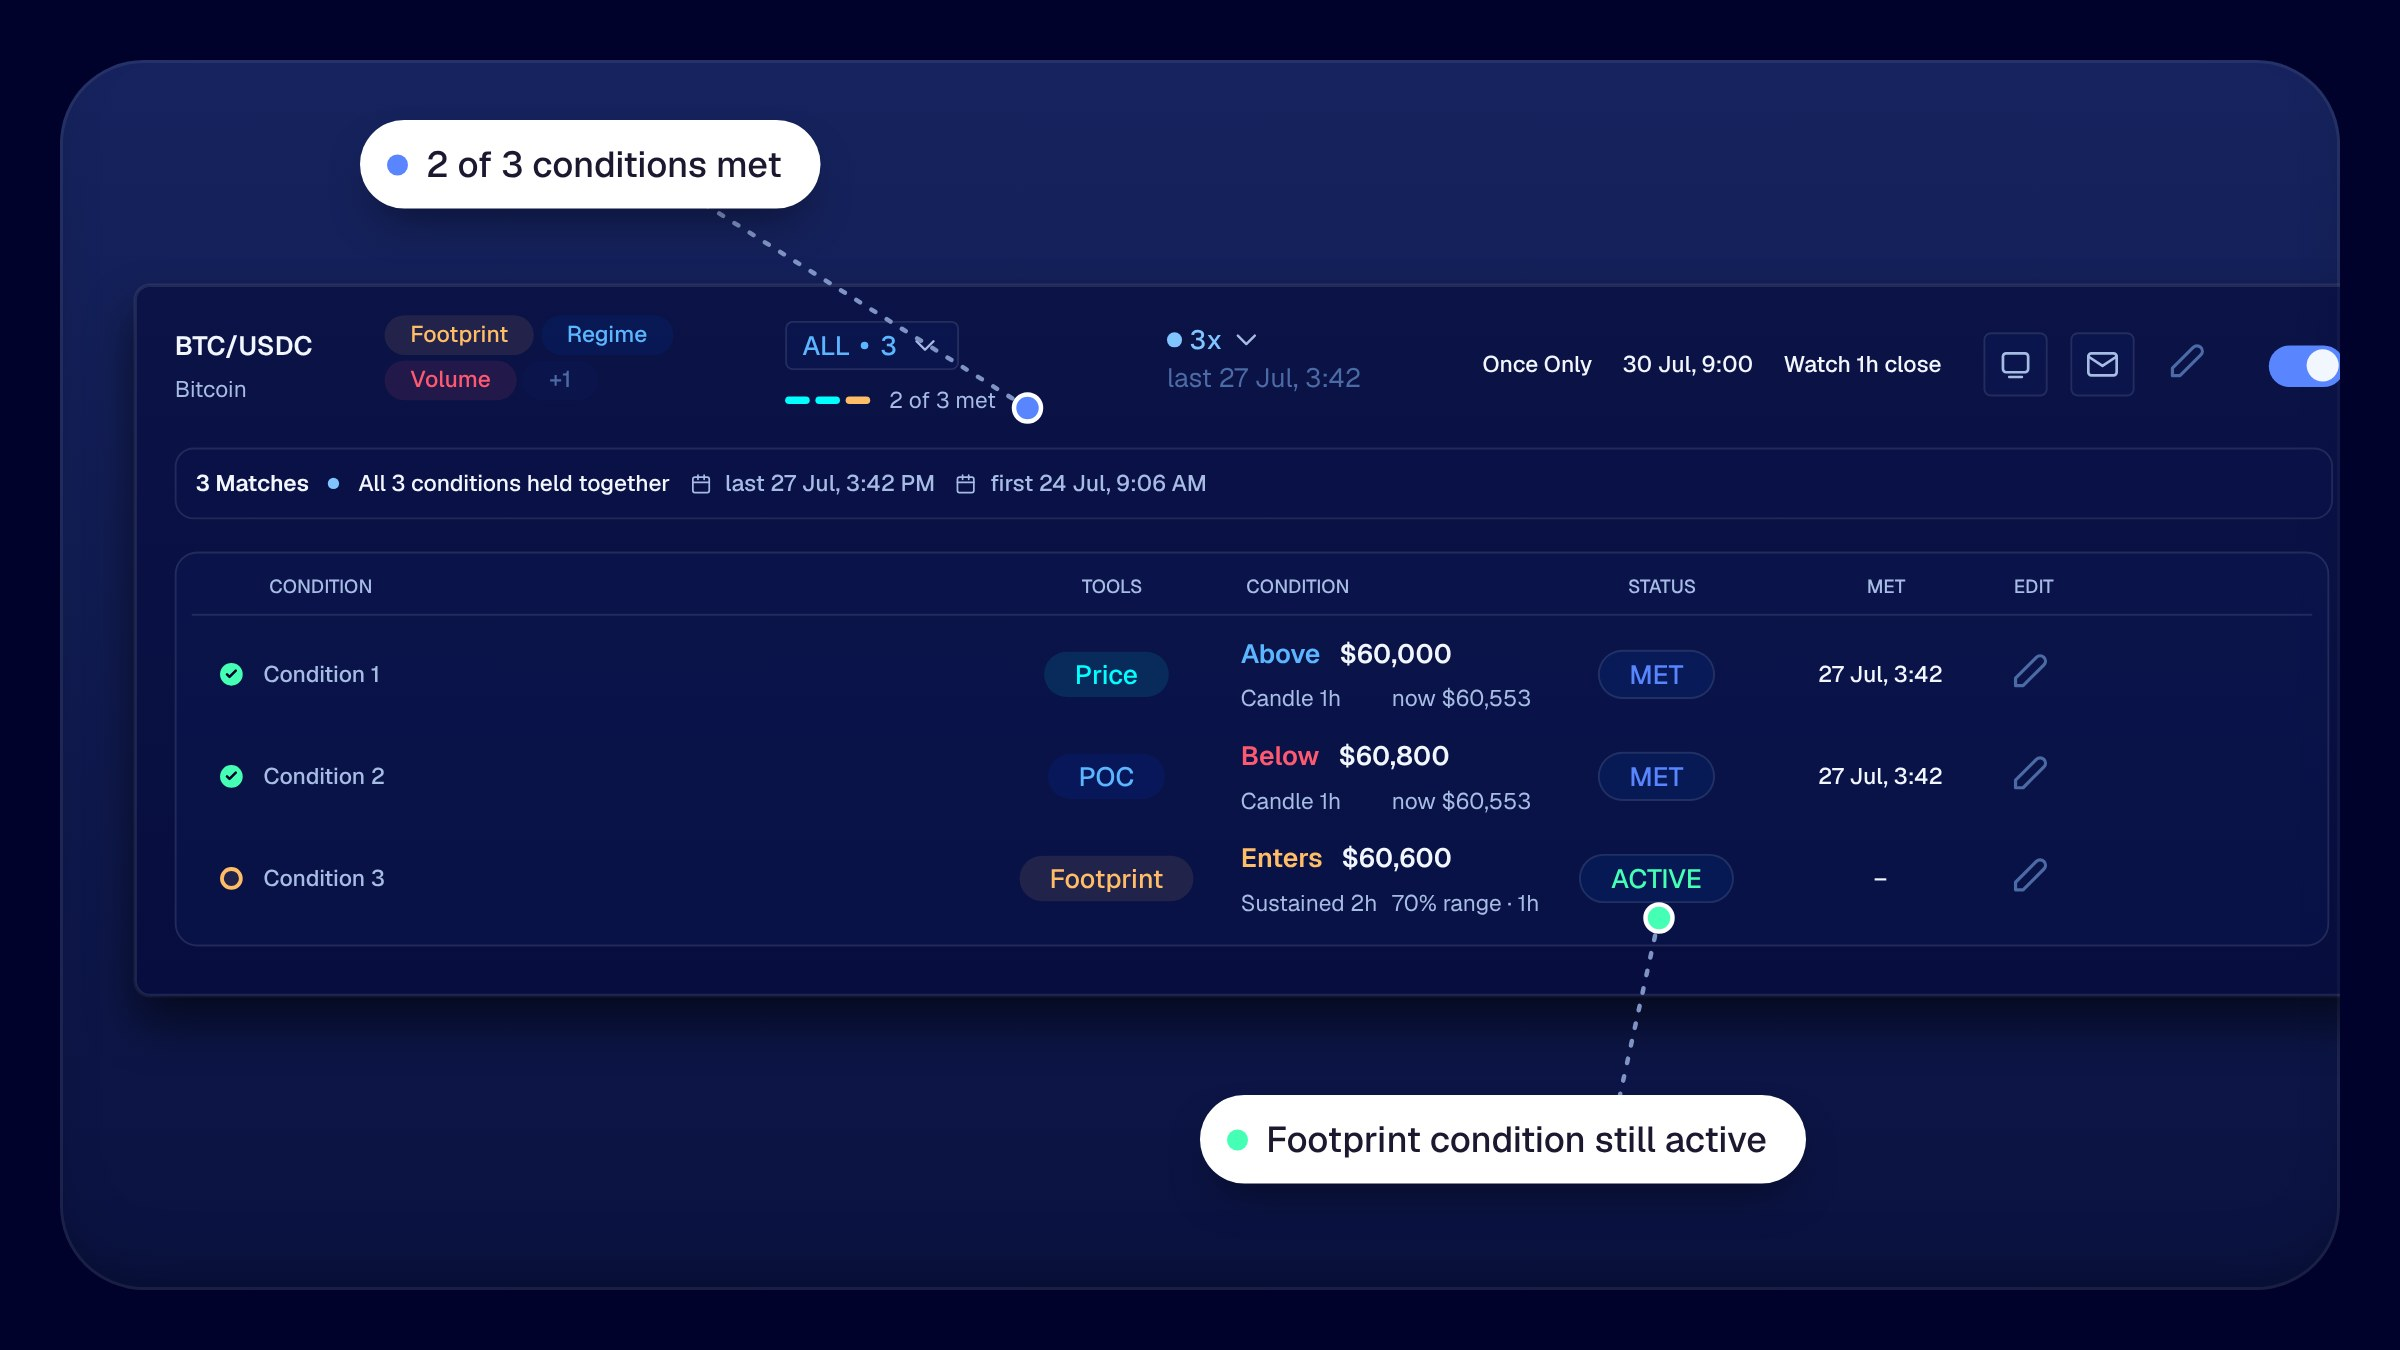
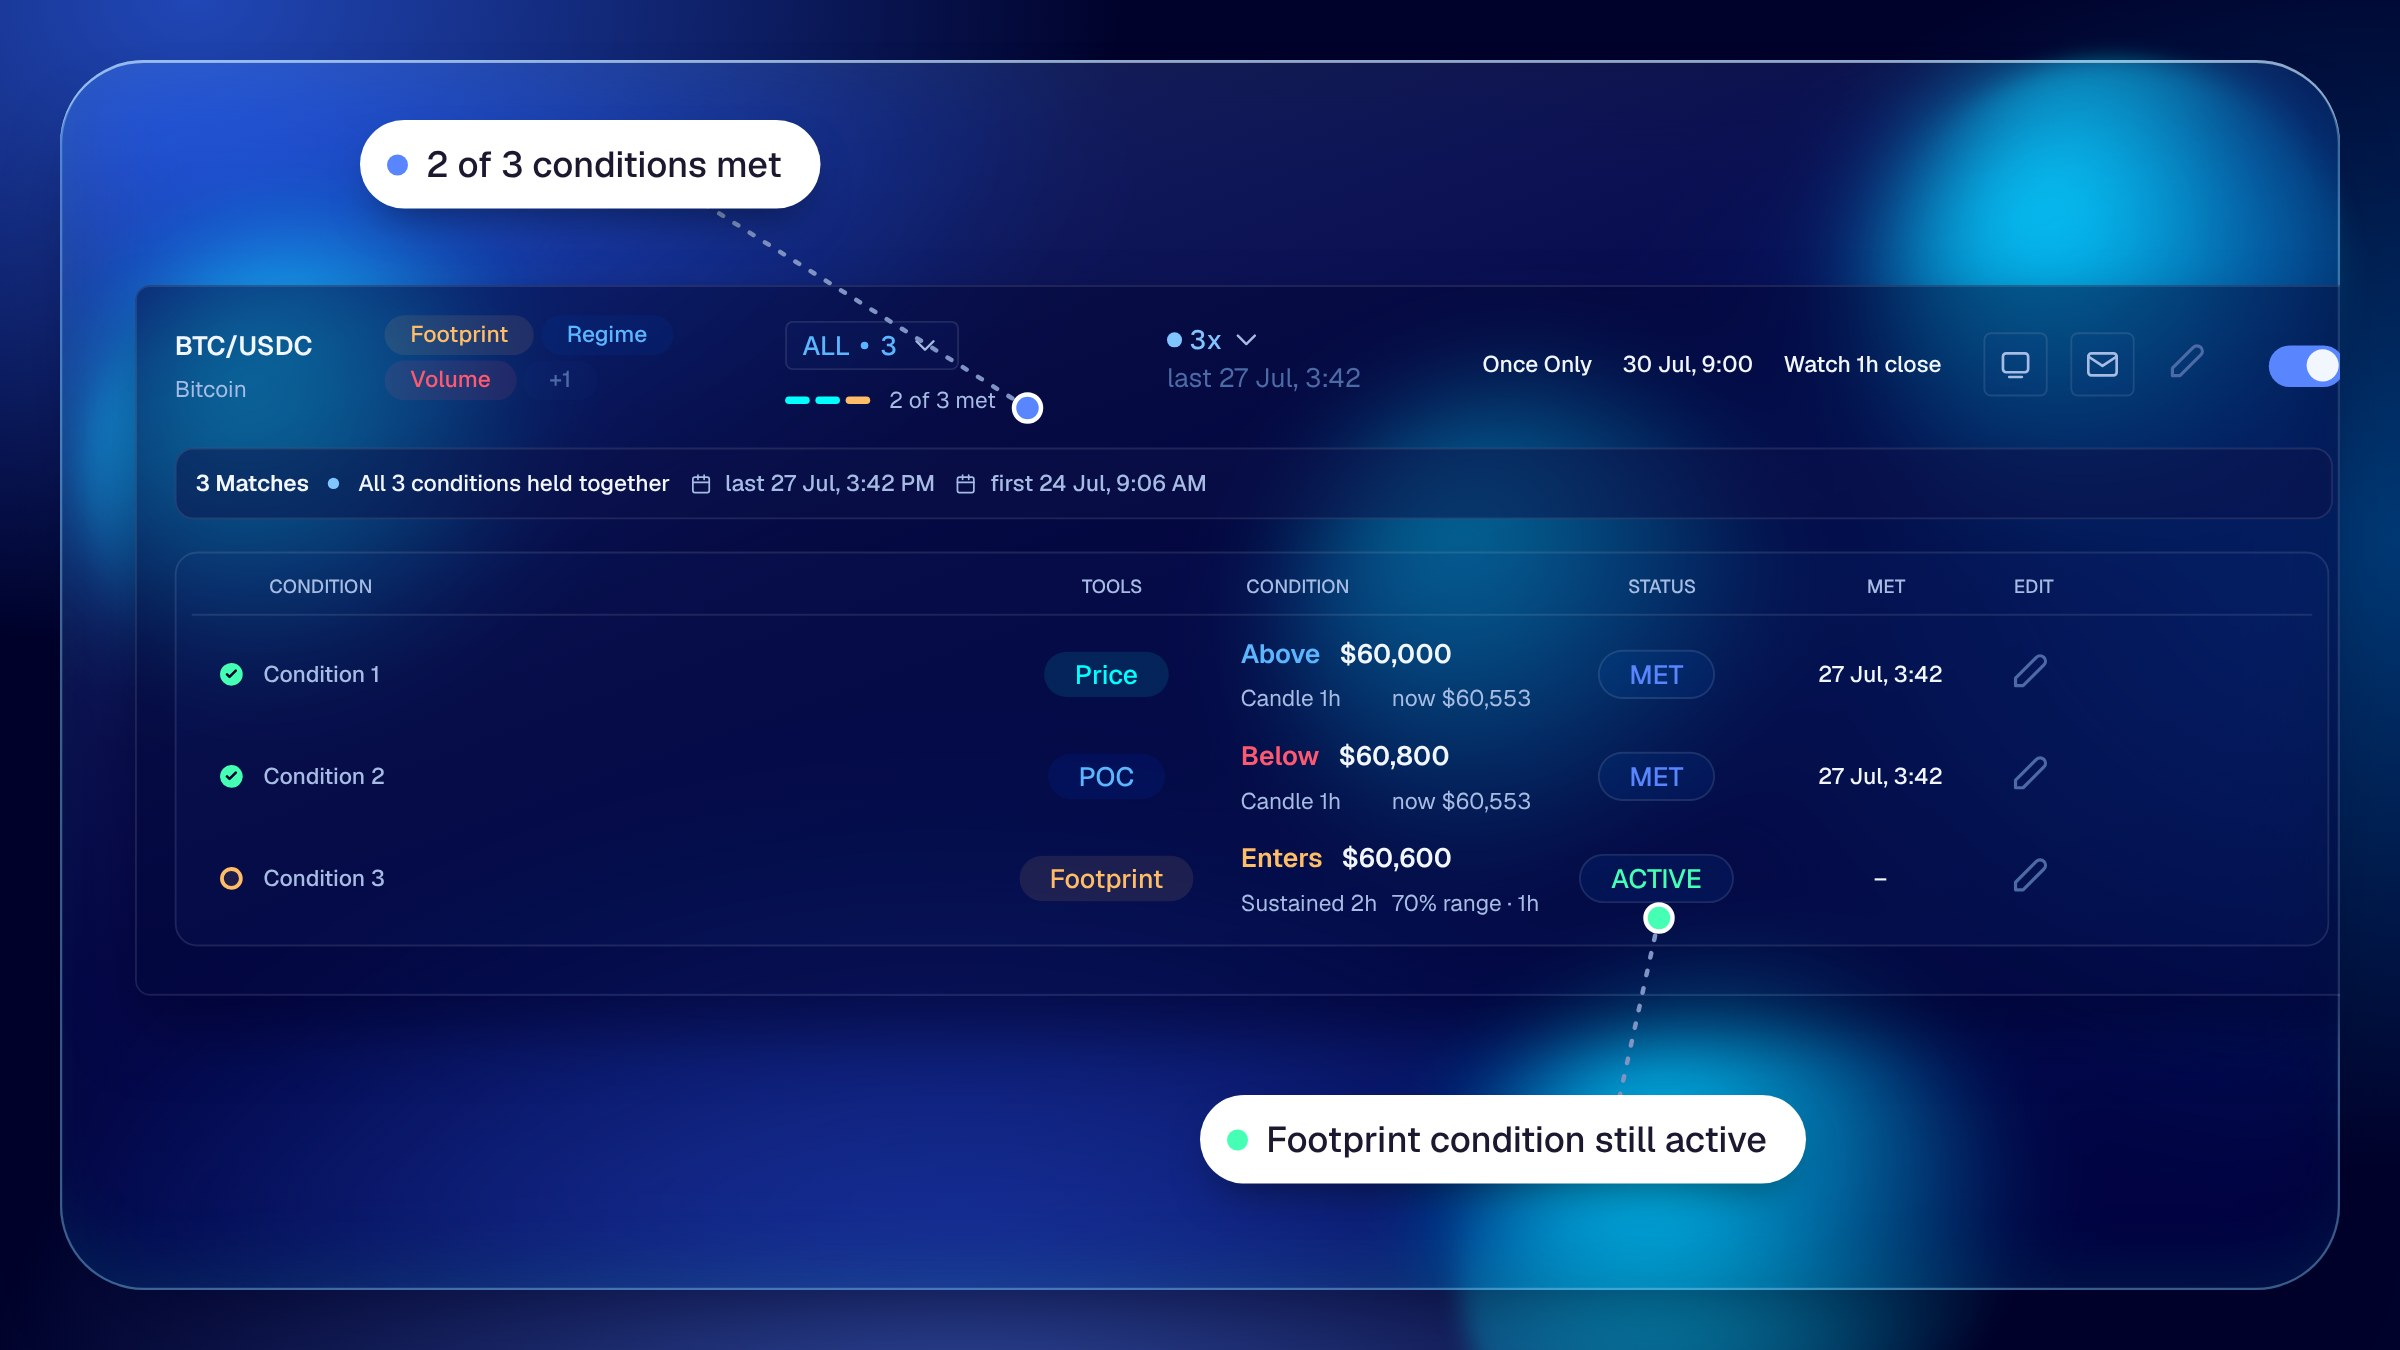
Jaadu modules: frosted glass plates and cards on a glowing ground
Claude-Session: https://claude.ai/code/session_01L48ecgvWMXiCwrAdC3aGTG

diff --git a/scripts/mockups/jaadu/modules.html b/scripts/mockups/jaadu/modules.html
@@ -8,12 +8,13 @@
 @font-face{font-family:'IBM Plex Mono';font-weight:400;src:url(node_modules/@fontsource/ibm-plex-mono/files/ibm-plex-mono-latin-400-normal.woff2)}
 @font-face{font-family:'IBM Plex Mono';font-weight:500;src:url(node_modules/@fontsource/ibm-plex-mono/files/ibm-plex-mono-latin-500-normal.woff2)}
 body{margin:0;background:#fff}
-.mod{position:relative;width:1600px;overflow:hidden;font-family:Geist,sans-serif;margin:0 0 60px;background:#00022B}
-.plate{position:absolute;overflow:hidden;border-radius:56px;background:linear-gradient(180deg,#16235E,#0A1240);box-shadow:inset 0 0 0 2px rgba(255,255,255,.07),inset 0 -26px 50px -28px rgba(0,0,0,.35)}
-.block{position:absolute;border-radius:56px;background:#ECEDF4;color:#15141F;padding:60px 68px;box-sizing:border-box;box-shadow:inset 0 0 0 2px rgba(255,255,255,.9)}
-.block h3{font-weight:300;font-size:58px;margin:0;letter-spacing:-.02em;line-height:1.08}
-.block p{font-weight:400;font-size:25px;line-height:1.5;margin:22px 0 0;color:#55546B;max-width:580px}
-.cr{position:absolute;overflow:hidden;box-shadow:0 18px 30px rgba(0,0,0,.55),0 0 0 1px rgba(255,255,255,.09)}
+.mod{position:relative;width:1600px;overflow:hidden;font-family:Geist,sans-serif;margin:0 0 60px;background:radial-gradient(1000px 700px at 8% 0%,rgba(38,83,207,.85),transparent 62%),radial-gradient(900px 700px at 100% 40%,rgba(0,160,255,.35),transparent 60%),radial-gradient(1100px 800px at 40% 110%,rgba(89,133,255,.55),transparent 60%),#00022B}
+.orb{position:absolute;border-radius:50%;filter:blur(8px);pointer-events:none}
+.plate{position:absolute;overflow:hidden;border-radius:56px;background:linear-gradient(160deg,rgba(130,190,255,.22),rgba(60,100,230,.08) 45%,rgba(0,10,80,.18));backdrop-filter:blur(34px) saturate(1.5);-webkit-backdrop-filter:blur(34px) saturate(1.5);box-shadow:inset 0 0 0 1.5px rgba(150,215,255,.38),inset 0 2px 0 rgba(255,255,255,.5),inset 0 -30px 60px -30px rgba(0,255,255,.12),0 30px 60px -30px rgba(0,0,40,.7)}
+.block{position:absolute;border-radius:56px;background:linear-gradient(150deg,rgba(255,255,255,.28),rgba(130,190,255,.12) 55%,rgba(38,83,207,.25));backdrop-filter:blur(34px) saturate(1.6);-webkit-backdrop-filter:blur(34px) saturate(1.6);color:#F1F6FF;padding:60px 68px;box-sizing:border-box;box-shadow:inset 0 0 0 1.5px rgba(170,225,255,.5),inset 0 2px 0 rgba(255,255,255,.6),0 30px 60px -30px rgba(0,0,40,.7)}
+.block h3{background:linear-gradient(90deg,#fff,#9fdcff 70%,#5ef2ff);-webkit-background-clip:text;color:transparent;font-weight:400;font-size:58px;margin:0;letter-spacing:-.02em;line-height:1.08}
+.block p{font-weight:400;font-size:25px;line-height:1.5;margin:22px 0 0;color:#C9D8F5;max-width:580px}
+.cr{position:absolute;overflow:hidden;box-shadow:0 24px 40px rgba(0,0,40,.5)}
 .cr>div{transform-origin:0 0}
 .lap{position:absolute}.lap .lid{position:relative;background:#0A0A0D;padding:16px;border-radius:30px 30px 8px 8px;box-shadow:inset 0 0 0 3px #3b3b42,0 40px 70px -34px rgba(0,0,0,.6)}
 .lap .scr{position:relative;overflow:hidden;border-radius:14px;background:#00022b}.lap .scr>div{transform-origin:0 0}
@@ -31,7 +32,8 @@ const lap=(scr,k,l,t,w=1440,h=900)=>`<div class="lap" style="left:${l}px;top:${t
 const plate=(l,t,w,h,inner)=>`<div class="plate" style="left:${l}px;top:${t}px;width:${w}px;height:${h}px">${inner}</div>`
 const block=(l,t,w,h,a,b)=>`<div class="block" style="left:${l}px;top:${t}px;width:${w}px;height:${h}px"><h3>${a}</h3><p>${b}</p></div>`
 const call=(w,h,x1,y1,x2,y2,c,txt,cx,cy)=>`<svg class="dl" width="${w}" height="${h}"><path d="M${x1} ${y1} L${x2} ${y2}" fill="none" stroke="#7F93C4" stroke-width="3" stroke-dasharray="3 9" stroke-linecap="round"/><circle cx="${x1}" cy="${y1}" r="9" fill="${c}" stroke="#fff" stroke-width="3"/></svg><div class="chip" style="--c:${c};left:${cx}px;top:${cy}px"><i></i>${txt}</div>`
-const mod=(id,h,inner)=>`<div class="mod" id="${id}" style="height:${h}px">${inner}</div>`
+let MI=0;const ORB=[['#00E5FF',.9],['#5985FF',.95],['#7B5CFF',.8],['#45FFB5',.55]]
+const mod=(id,h,inner)=>{const r=(n)=>{MI++;return ((Math.sin(MI*12.9898+n*78.233)*43758.5453)%1+1)%1};let o='';for(let i=0;i<4;i++){const c=ORB[(MI+i)%4],d=300+r(i)*260;o+=`<div class="orb" style="left:${r(1+i)*1500-d/2}px;top:${r(5+i)*(h-100)-d/3}px;width:${d}px;height:${d}px;background:radial-gradient(circle at 35% 30%,${c[0]},rgba(0,0,0,0) 72%);opacity:${c[1]}"></div>`}return `<div class="mod" id="${id}" style="height:${h}px">${o}${inner}</div>`}
 const N='box-shadow:none;overflow:visible';const M=[]
 // 1 spread: overnight (standout)
 M.push(mod('m-overnight',1000,

diff --git a/scripts/mockups/jaadu/comp.js b/scripts/mockups/jaadu/comp.js
@@ -37,7 +37,7 @@ const P = {
 }
 const I = (k, s, c, w) => ic(P[k], s, c, w)
 
-const cardBg = `background:linear-gradient(180deg,rgba(0,117,255,0) 77%,rgba(121,183,255,.12) 100%),radial-gradient(120% 60% at 50% 0%,rgba(48,85,227,.34),rgba(40,83,167,0) 70%),rgba(8,14,60,.55);border:1px solid rgba(103,209,255,.5);box-shadow:inset 0 1px 0 rgba(130,210,255,.35)`
+const cardBg = `background:linear-gradient(180deg,rgba(0,117,255,0) 70%,rgba(121,183,255,.2) 100%),radial-gradient(120% 70% at 50% 0%,rgba(70,120,255,.5),rgba(40,83,167,0) 72%),rgba(6,16,80,.62);backdrop-filter:blur(22px) saturate(1.4);border:1px solid rgba(120,220,255,.75);box-shadow:inset 0 1px 0 rgba(180,235,255,.6),0 0 24px rgba(60,160,255,.25)`
 const flat = `background:${T.glass};border:.5px solid ${T.b10}`
 
 const btcCoin = (s = 30) => `<div style="width:${s}px;height:${s}px;border-radius:50%;background:${T.btc};display:grid;place-items:center;color:#fff;font:700 ${s * .58}px Geist">₿</div>`
